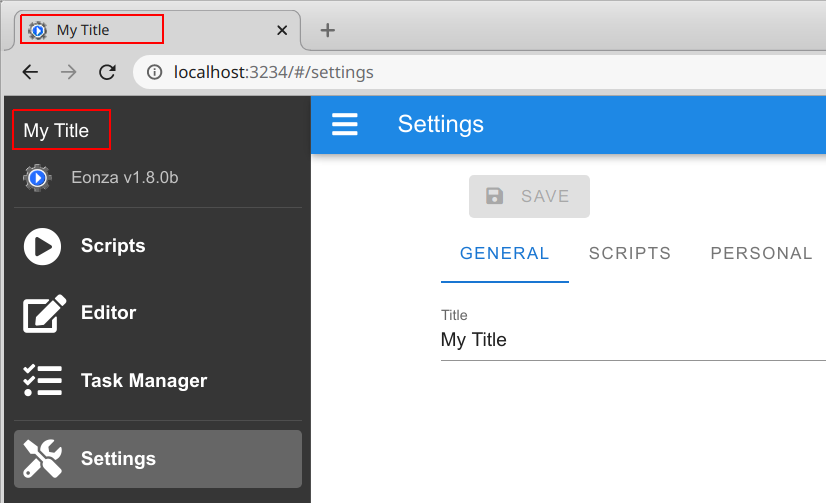
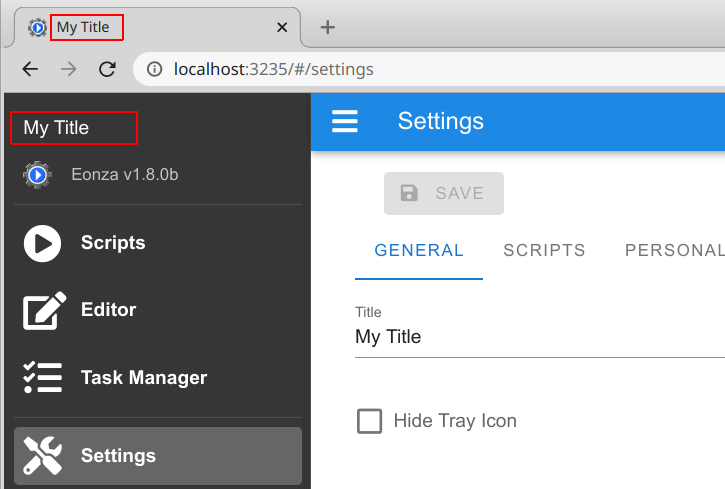
version 1.8.0

diff --git a/en/downloads.md b/en/downloads.md
@@ -12,6 +12,7 @@ res:
 html:
    linux-64z: <strong><a href="%gitpath%-linux-amd64.zip" @click="track">eonza-%ver%-linux-amd64.zip</a></strong>
    linux-64: <a href="/downloads/linux-amd64/eonza" @click="track">eonza</a>
+   linux-64t: <a href="/downloads/linux-amd64/eonzat" @click="track">eonzat</a>
    linuxb-64: <a href="/downloads/linux-amd64/eonza-%betaver%b" @click="track">eonza</a>
    linux-32z: <a href="%gitpath%-linux-386.zip" @click="track">eonza-%ver%-linux-386.zip</a>
    linux-32: <a href="/downloads/linux-386/eonza" @click="track">eonza</a>
@@ -42,7 +43,8 @@ If you are not sure what to download and have a regular computer, please use **6
 | %html.windows-32%|%res.program%| %size-windows-386% | 32-bit (x86-32)| Windows
 | **Linux**
 | %html.linux-64z% |%res.archive%| %zsize-linux-amd64%| 64-bit (x86-64)| Linux
-| %html.linux-64% |%res.program%| %size-linux-amd64%| 64-bit (x86-64)| Linux
+| %html.linux-64%|%res.program%| %size-linux-amd64%| 64-bit (x86-64)| Linux
+| %html.linux-64t% (+TrayIcon)|%res.program%| %tsize-linux-amd64%| 64-bit (x86-64)| Linux
 | %html.linux-32z% |%res.archive%| %zsize-linux-386%| 32-bit (x86-32)| Linux
 | %html.linux-32% |%res.program%| %size-linux-386%| 32-bit (x86-32)| Linux
 | **Apple macOS**
@@ -50,7 +52,7 @@ If you are not sure what to download and have a regular computer, please use **6
 | %html.macos-64% |%res.program%| %size-darwin-amd64% | 64-bit (x86-64)| macOS
 %%
 
-## Beta version %betaver%
+<!--## Beta version %betaver%
 
 %% downloadbeta
 | %res.os% | %res.filename% | %res.kind% | %res.size% | %res.arch%
@@ -59,3 +61,4 @@ If you are not sure what to download and have a regular computer, please use **6
 | **Linux** | %html.linuxb-64% |%res.program%| %sizeb-linux-amd64%| 64-bit (x86-64)
 | **Apple macOS**  | %html.macosb-64% |%res.program%| %sizeb-darwin-amd64% | 64-bit (x86-64)
 %%
+-->

diff --git a/ru/docs/settings.md b/ru/docs/settings.md
@@ -16,6 +16,9 @@ img:
 **Заголовок**  
 Вы можете указать свой собственный заголовок для программы Eonza. Это может быть полезно, если вы используйте несколько установок Eonza.
 
+**Скрыть иконку в трее**  
+Данные параметр доступен, если ваша версия Eonza поддерживает отображение иконки с меню в системном трее. Отметьте этот чекбокс, если вы хотите отключить создание иконки в системном трее.
+
 %html.settings-general%
 
 ## Скрипты

diff --git a/ru/docs/changelog-2020.md b/ru/docs/changelog-2020.md
@@ -4,9 +4,12 @@ desc: История изменений программы Eonza за 2020
 ---
 # История изменений за 2020
 
-<!--## Версия разработчика-->
+## Версия разработчика
 
-## Бета версия 1.8.0
+* Добавлена опция *Скрыть иконку в трее* в **Настройки**.
+
+<!--## Бета версия 1.8.0-->
+## Версия 1.8.0 - 2020/12/12
 
 * Добавлена иконка в трее с пунктами *Открыть в браузере* и *Выключить* (исключая MacOS).
 * Добавлен параметр **Папка** в настройки скриптов.

diff --git a/en/docs/settings.md b/en/docs/settings.md
@@ -25,6 +25,9 @@ Here you can specify various settings for more comfortable work with the Eonza p
 **Title**  
 You can provide your own title for the Eonza program. This can be useful if you use more than one Eonza installation.
 
+**Hide Tray Icon**  
+This option is available if your version of Eonza supports displaying a menu icon in the system tray. Check this checkbox if you want to disable the creation of a system tray icon.
+
 %html.settings-general%
 
 ## Scripts

diff --git a/en/docs/changelog-2020.md b/en/docs/changelog-2020.md
@@ -4,8 +4,12 @@ desc: Eonza Program Changelog for 2020
 ---
 # Changelog for 2020
 
-<!--## Developer version-->
-## Beta version 1.8.0
+## Developer version
+
+* Added *Hide Tray Icon* option in **Settings**.
+
+<!--## Beta version 1.8.0-->
+## Version 1.8.0 - 2020/12/12
 
 * Added tray icon with *Open in Browser* and *Shutdown* items (except MacOS).
 * Added **Folder** parameter to script settings.

diff --git a/ru/downloads.md b/ru/downloads.md
@@ -20,6 +20,6 @@ res:
 
 %snippet.downloadlist%
 
-## Бета-версия %betaver%
+<!--## Бета-версия %betaver%
 
-%snippet.downloadbeta%
+%snippet.downloadbeta%-->
